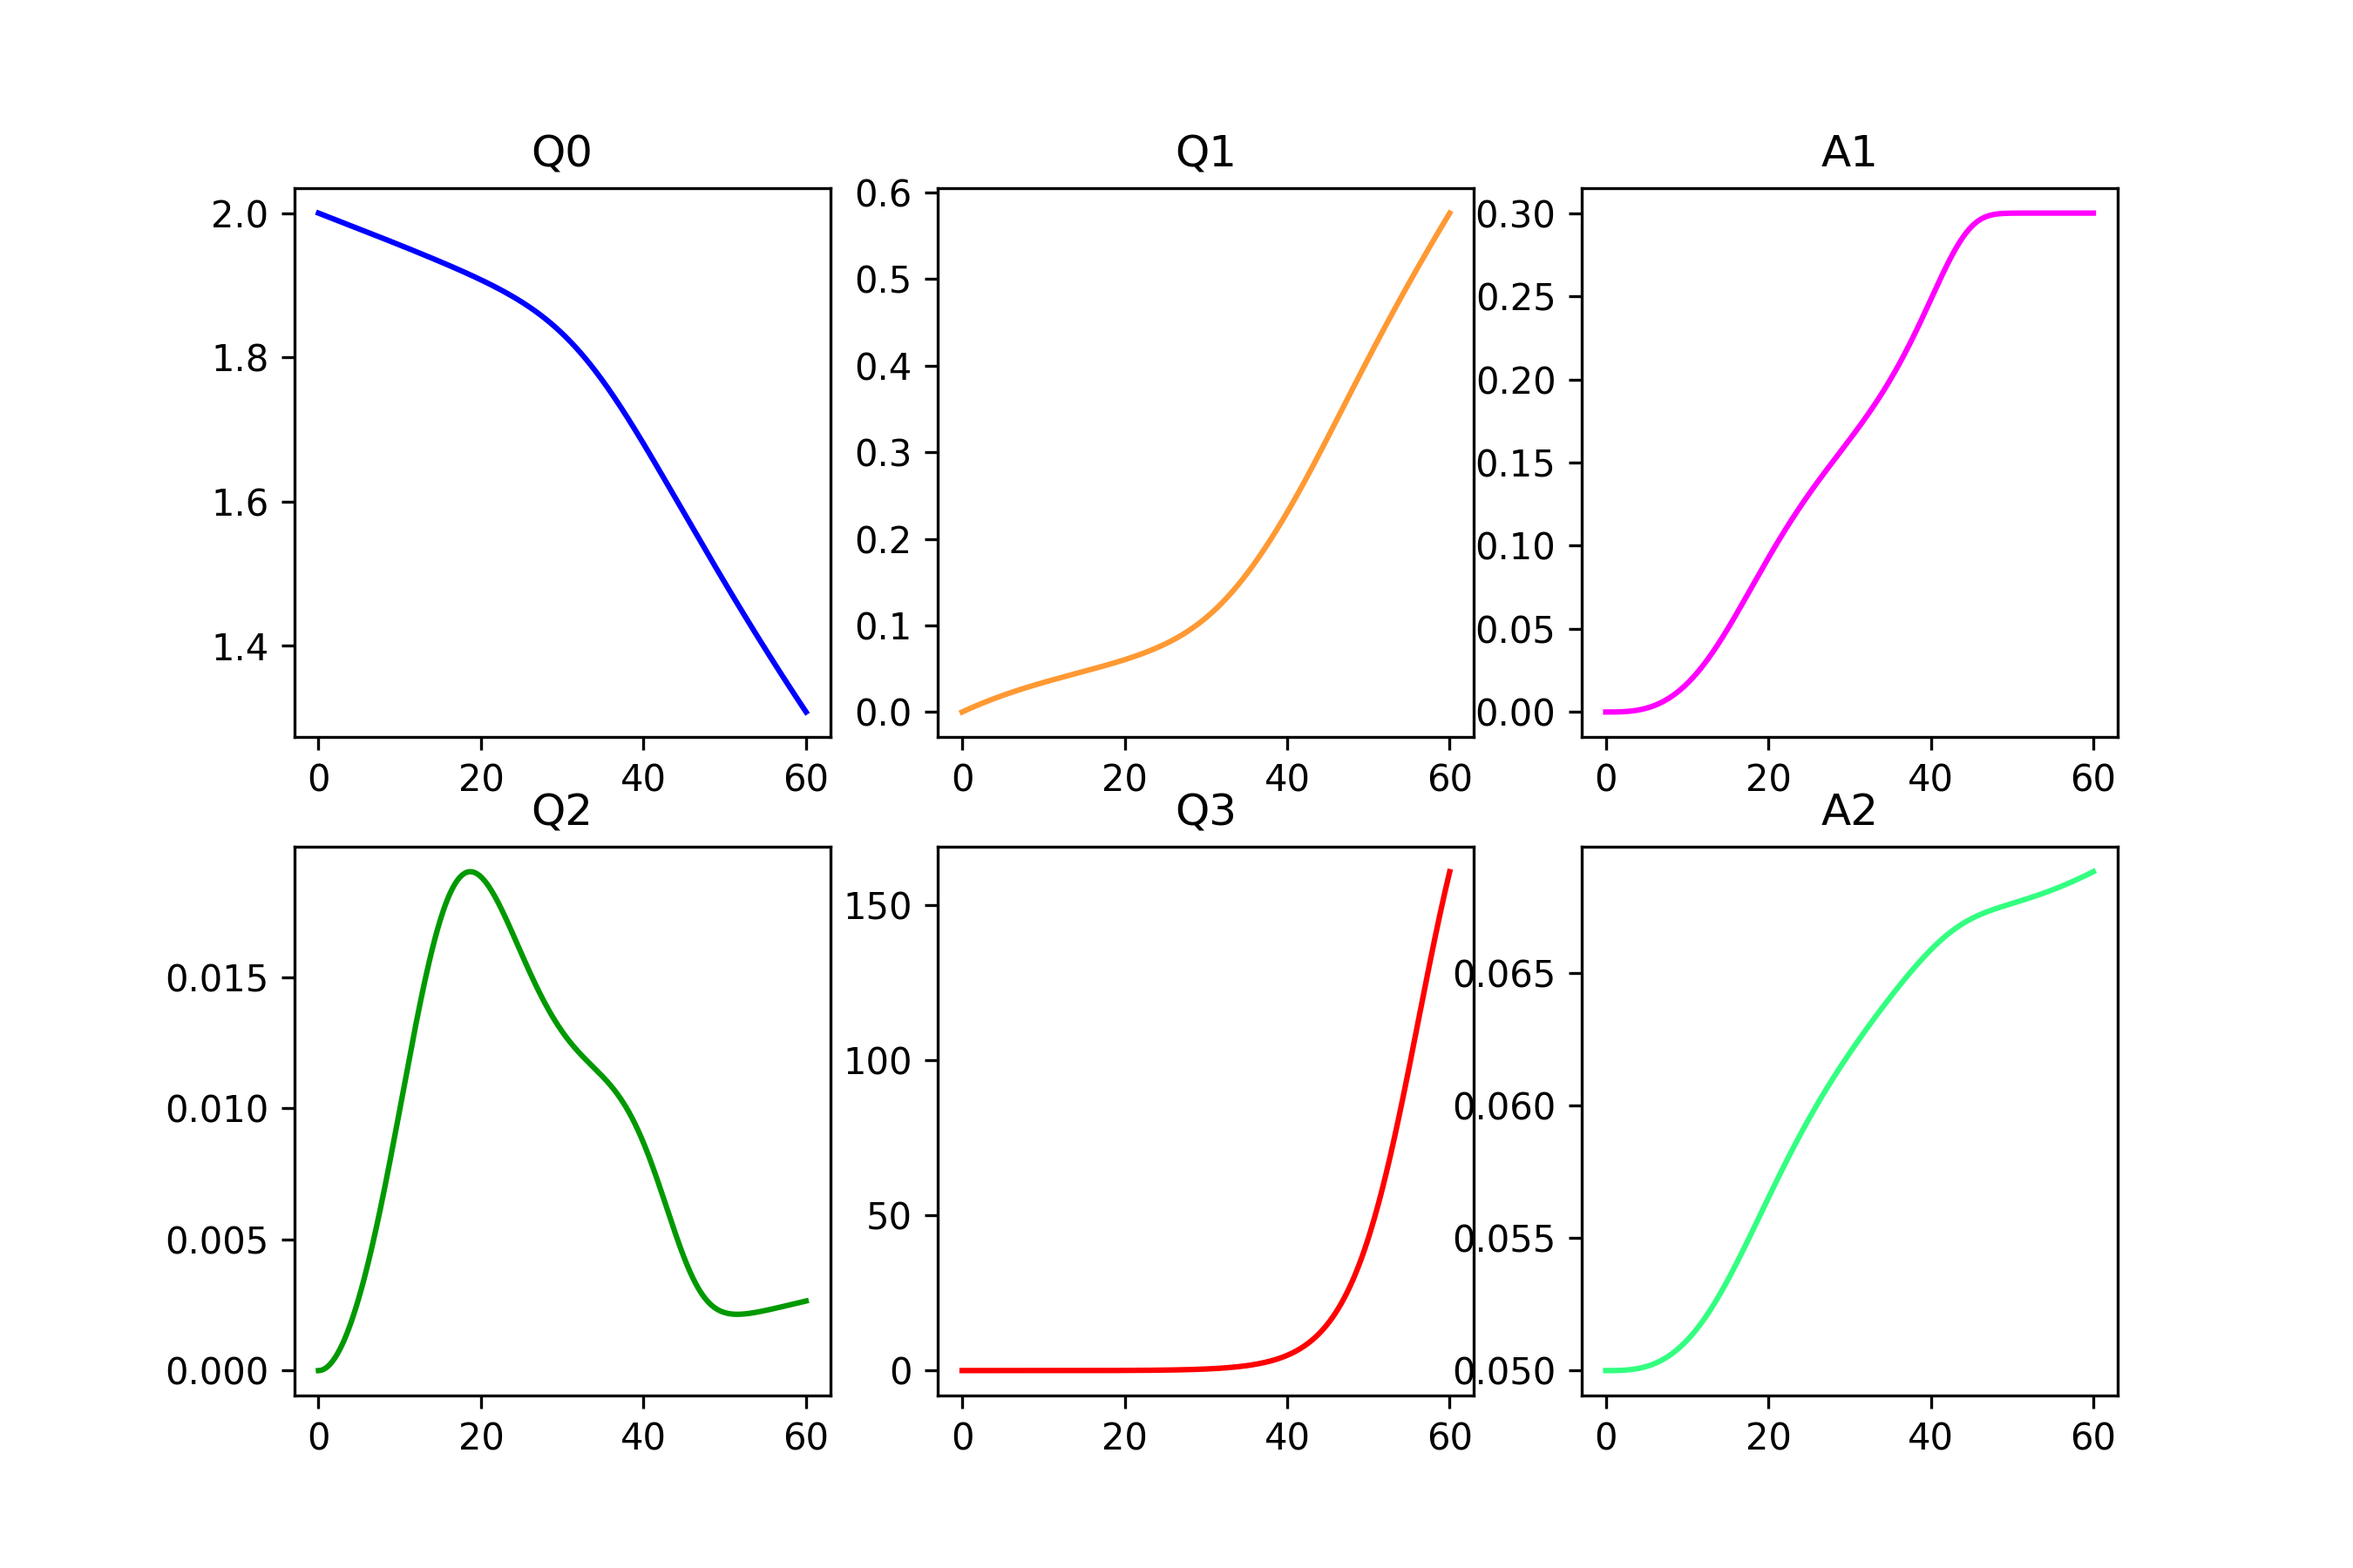
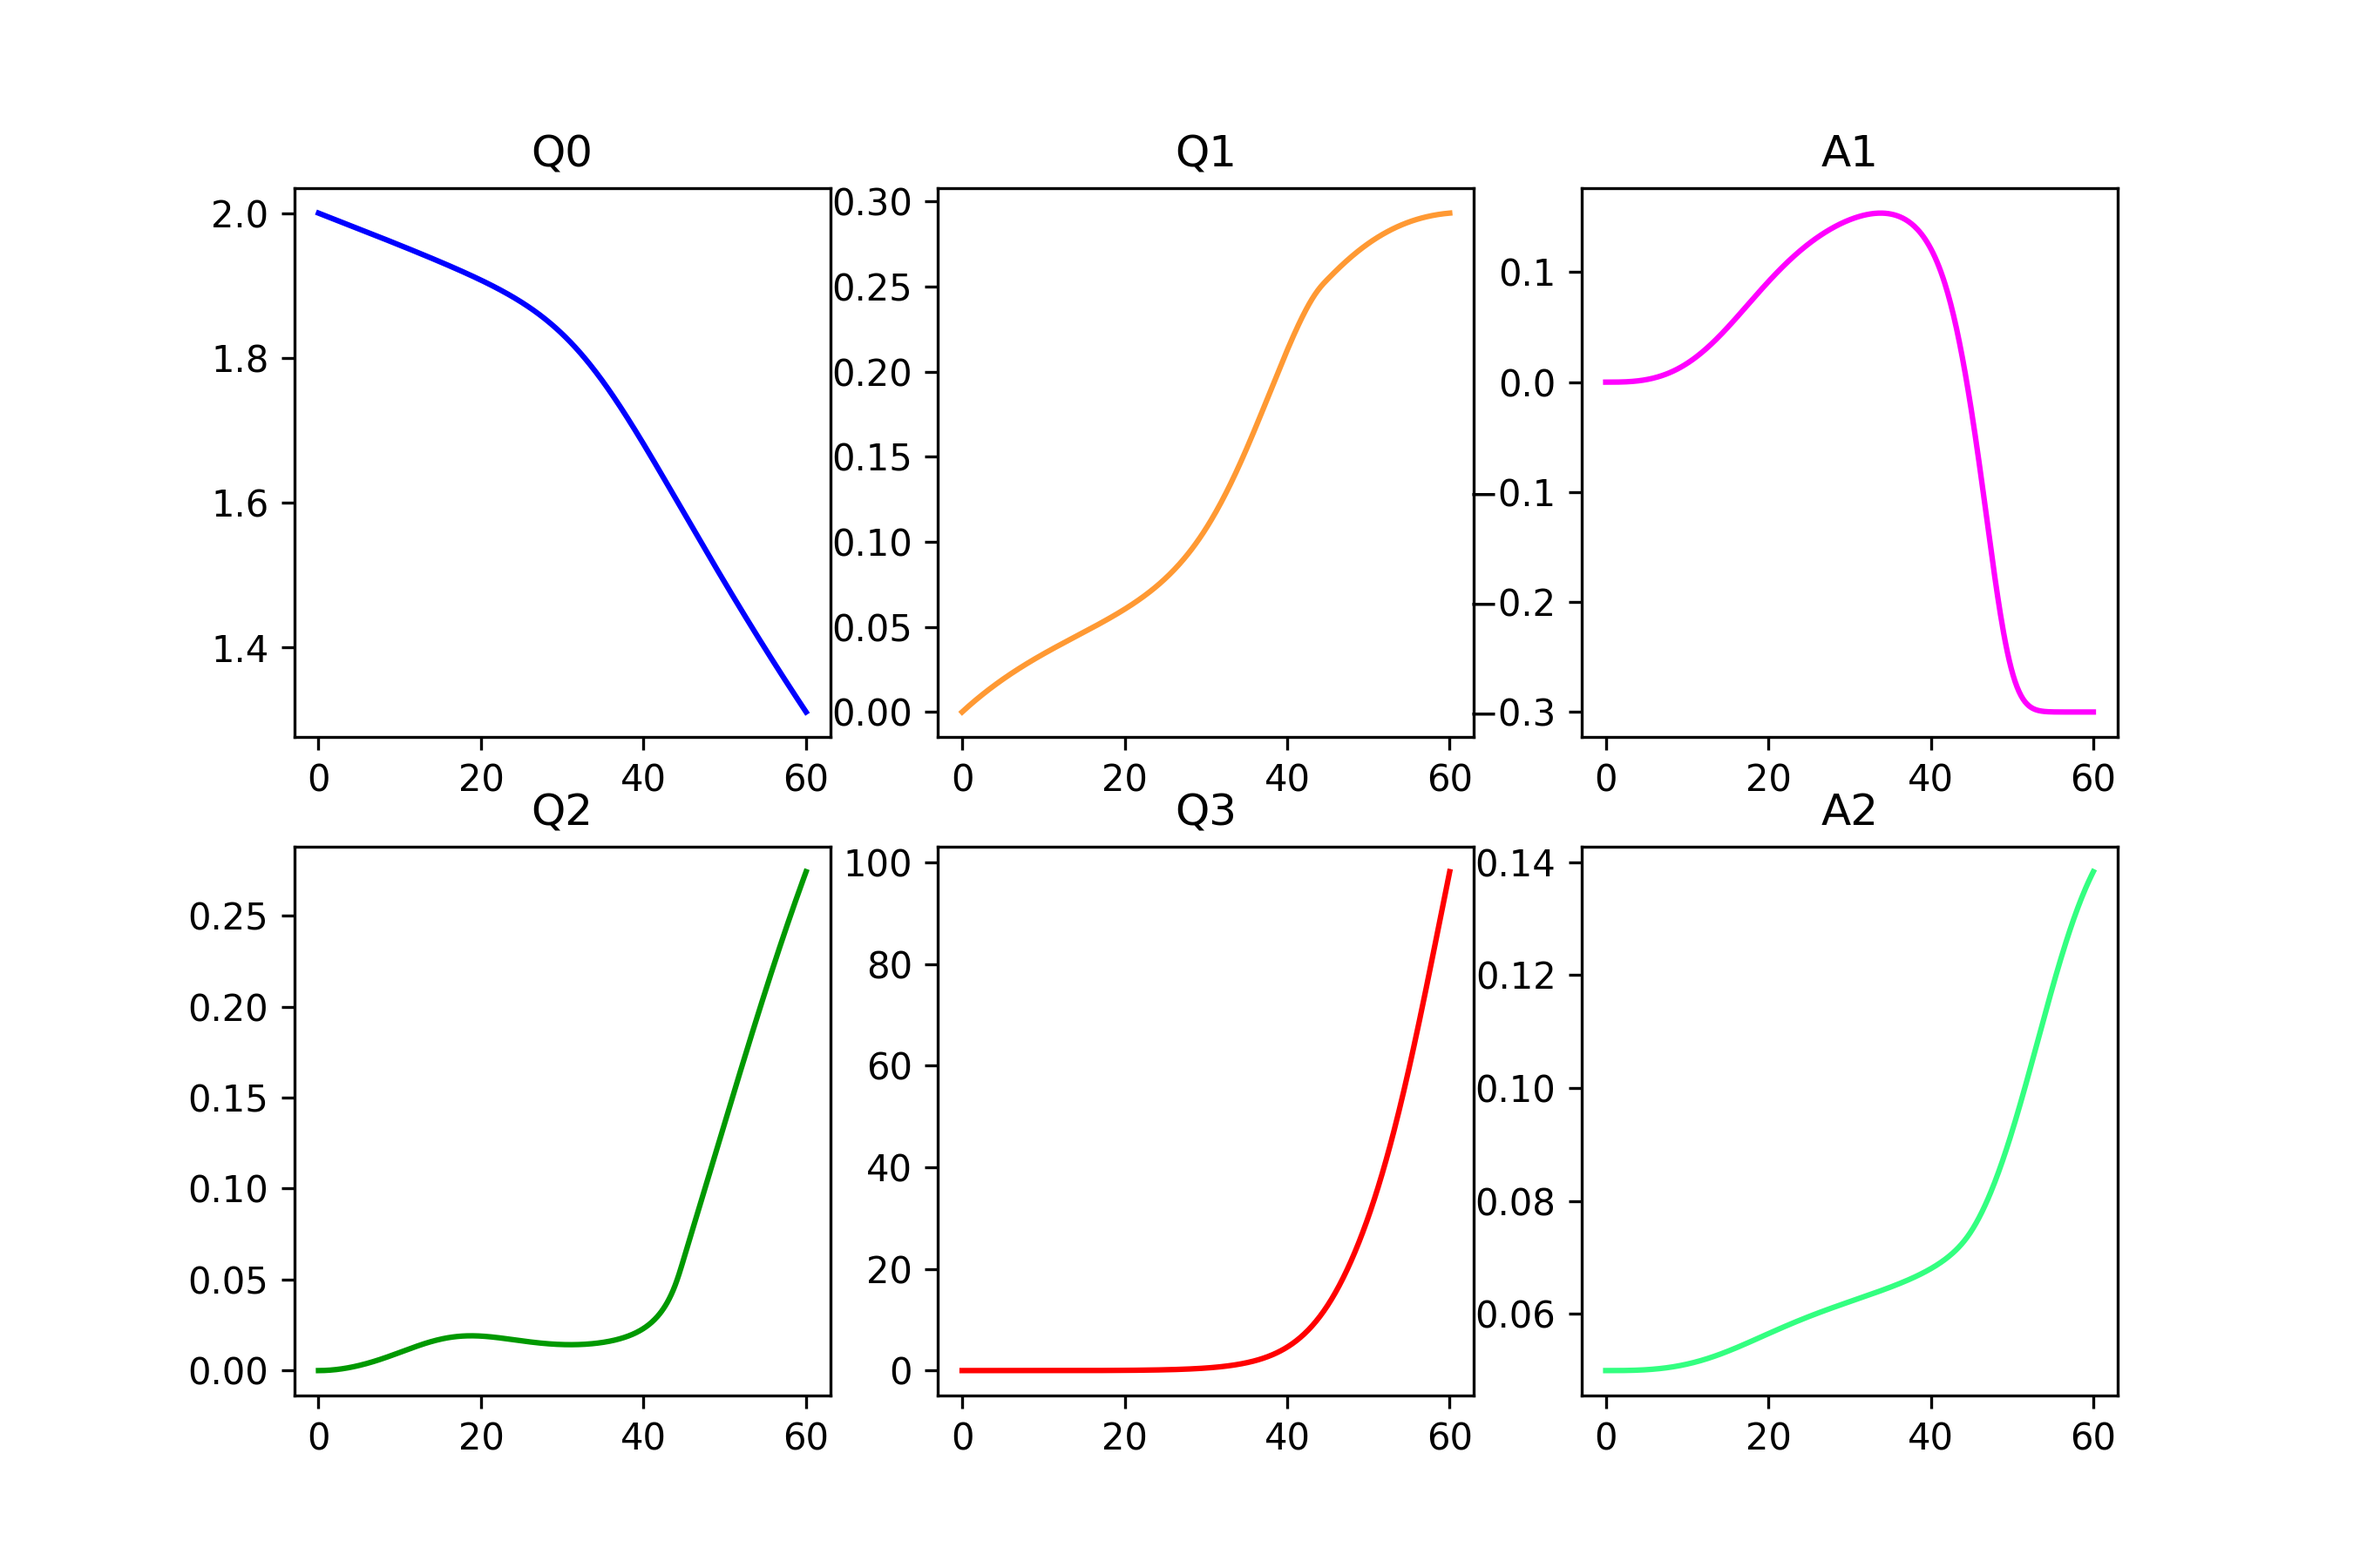
fixed issue because of typo

diff --git a/tumor.py b/tumor.py
@@ -5,7 +5,7 @@ from model_utility import *
 import json
 
 
-IGNORE_MODEL_ERRORS = False
+IGNORE_MODEL_ERRORS = True
 
 
 def split_time_view(scale=False):
@@ -81,7 +81,7 @@ def f(Y,t):
         gamma2*Q[2]*(1-(Q[2]+Q[3])/tauC + A[1]/tauCA1 + A[2]/tauCA2) + f1(A[1])*Q[1] - f2(A[1], A[2])*Q[2],
         gamma3*Q[3]*(1-(Q[2]+Q[3])/tauC + A[1]/tauCA1 + A[2]/tauCA2) + f2(A[1], A[2])*Q[2],
         
-        (alpha1*Q[1]+alpha2*Q[2]+alpha3*Q[3])*(1-A[1]/tauA1)*(1+A[1]/tauA1),
+        (alpha1*Q[1]+alpha2*Q[2]-alpha3*Q[3])*(1-A[1]/tauA1)*(1+A[1]/tauA1),
         (alpha2b*Q[2]+alpha3b*Q[3])*A[2]*(1-A[2]/tauA2)
     ])
 
